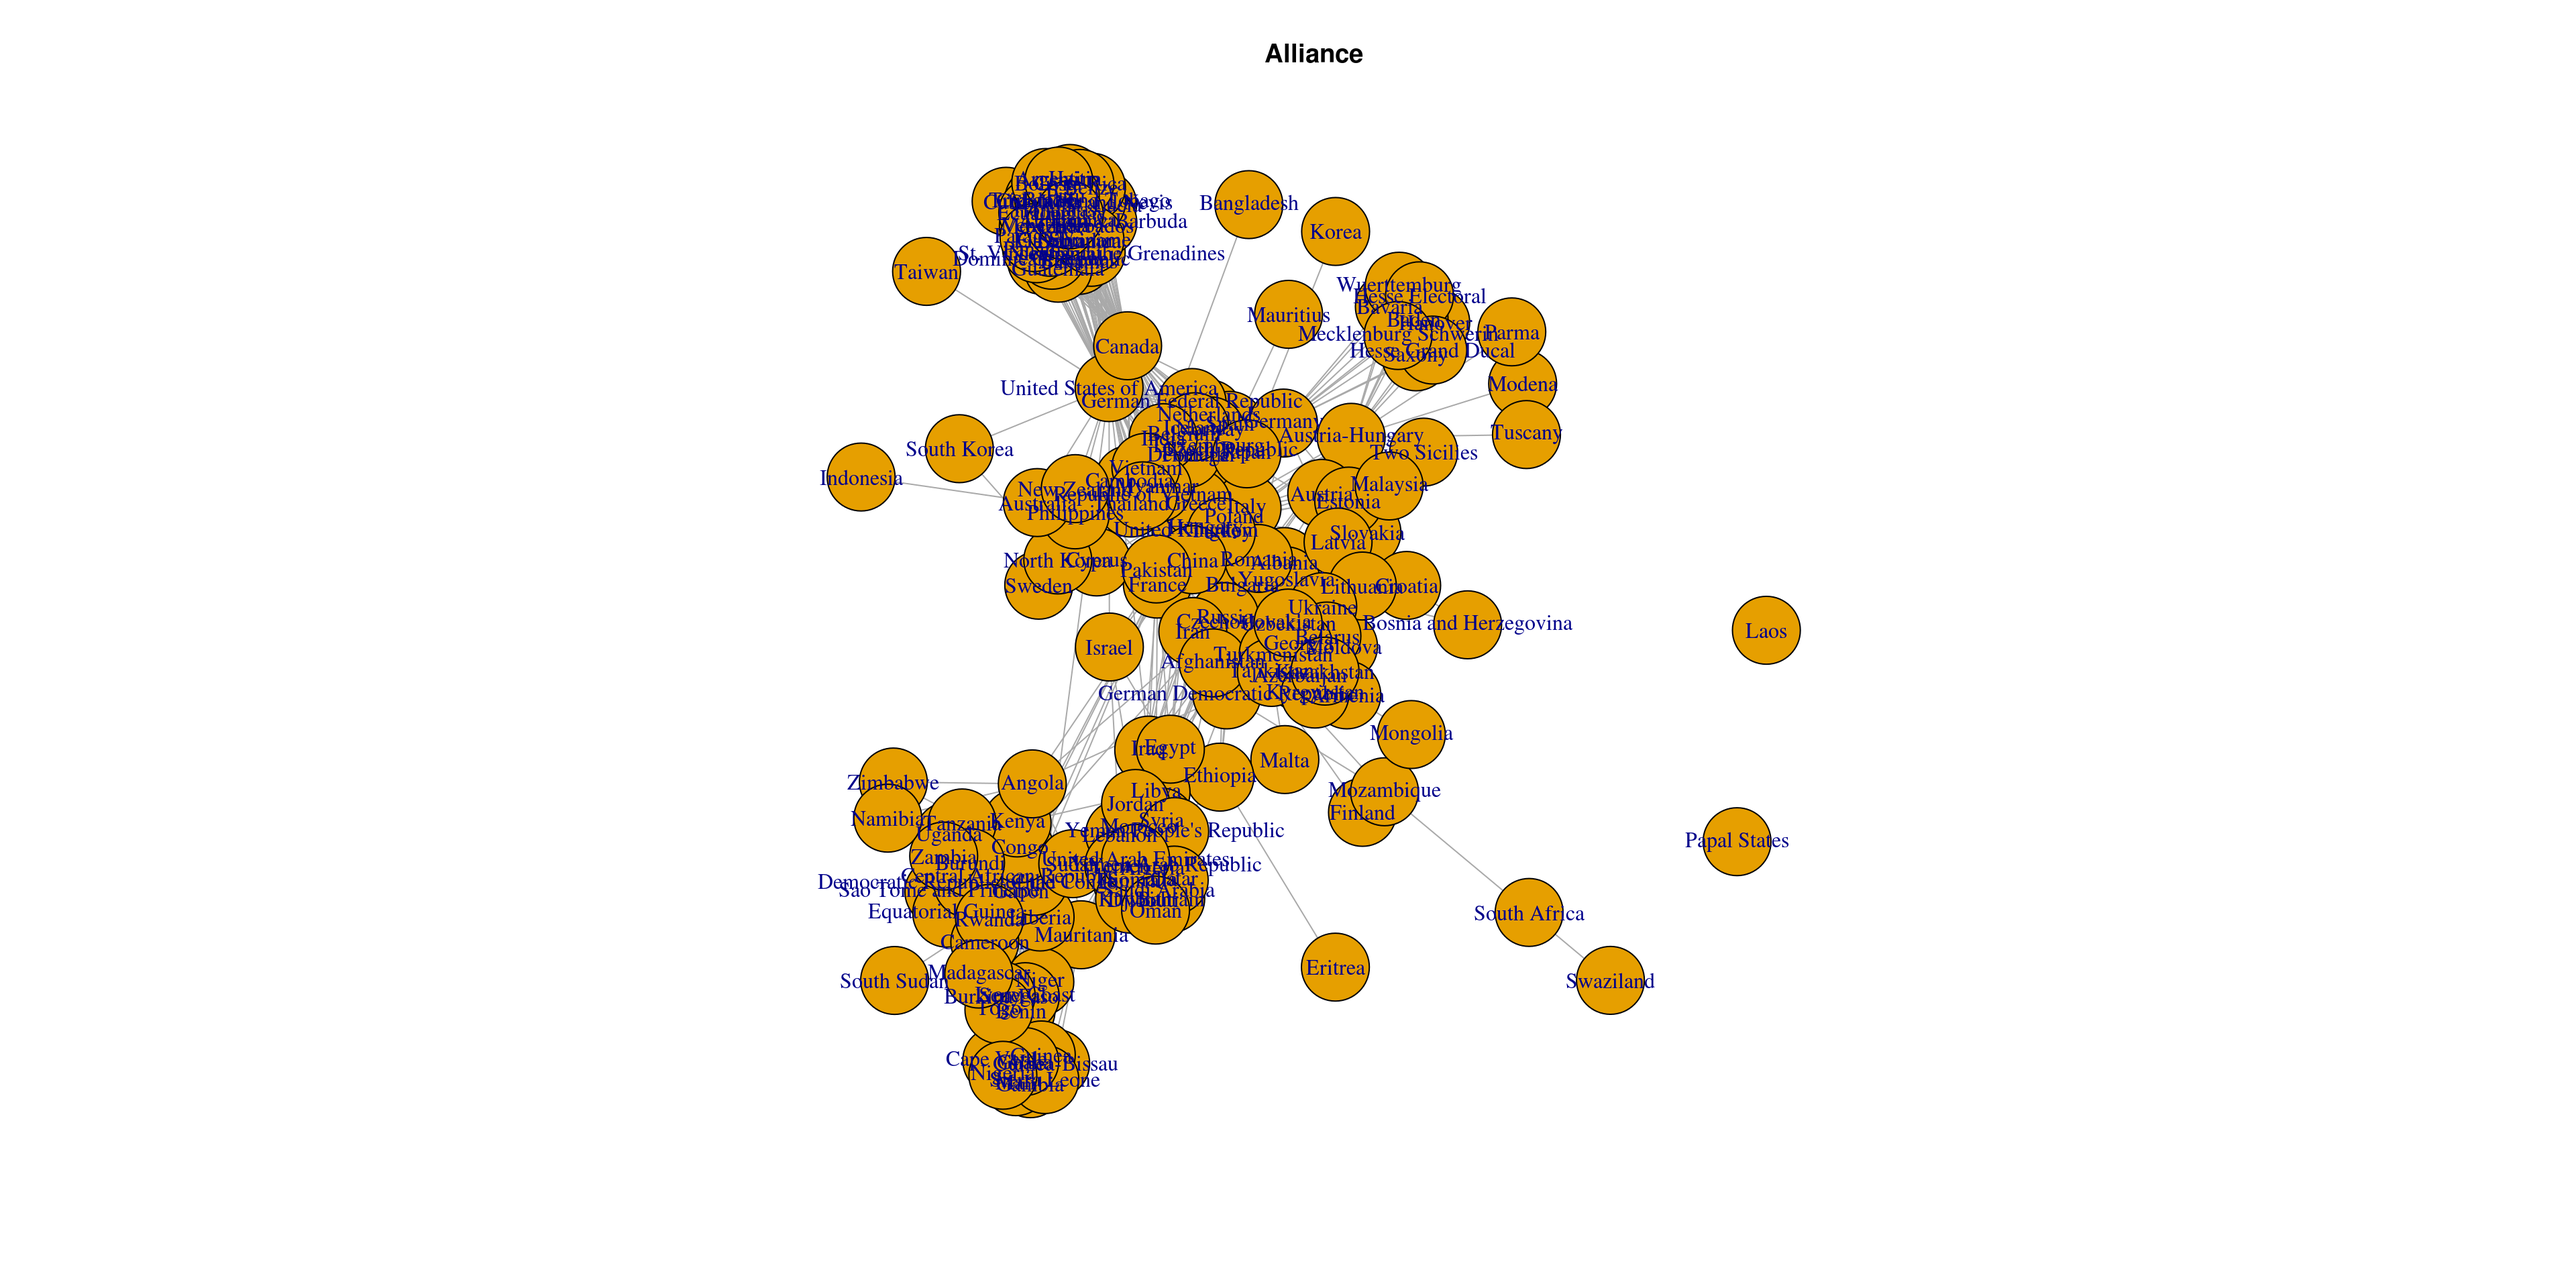
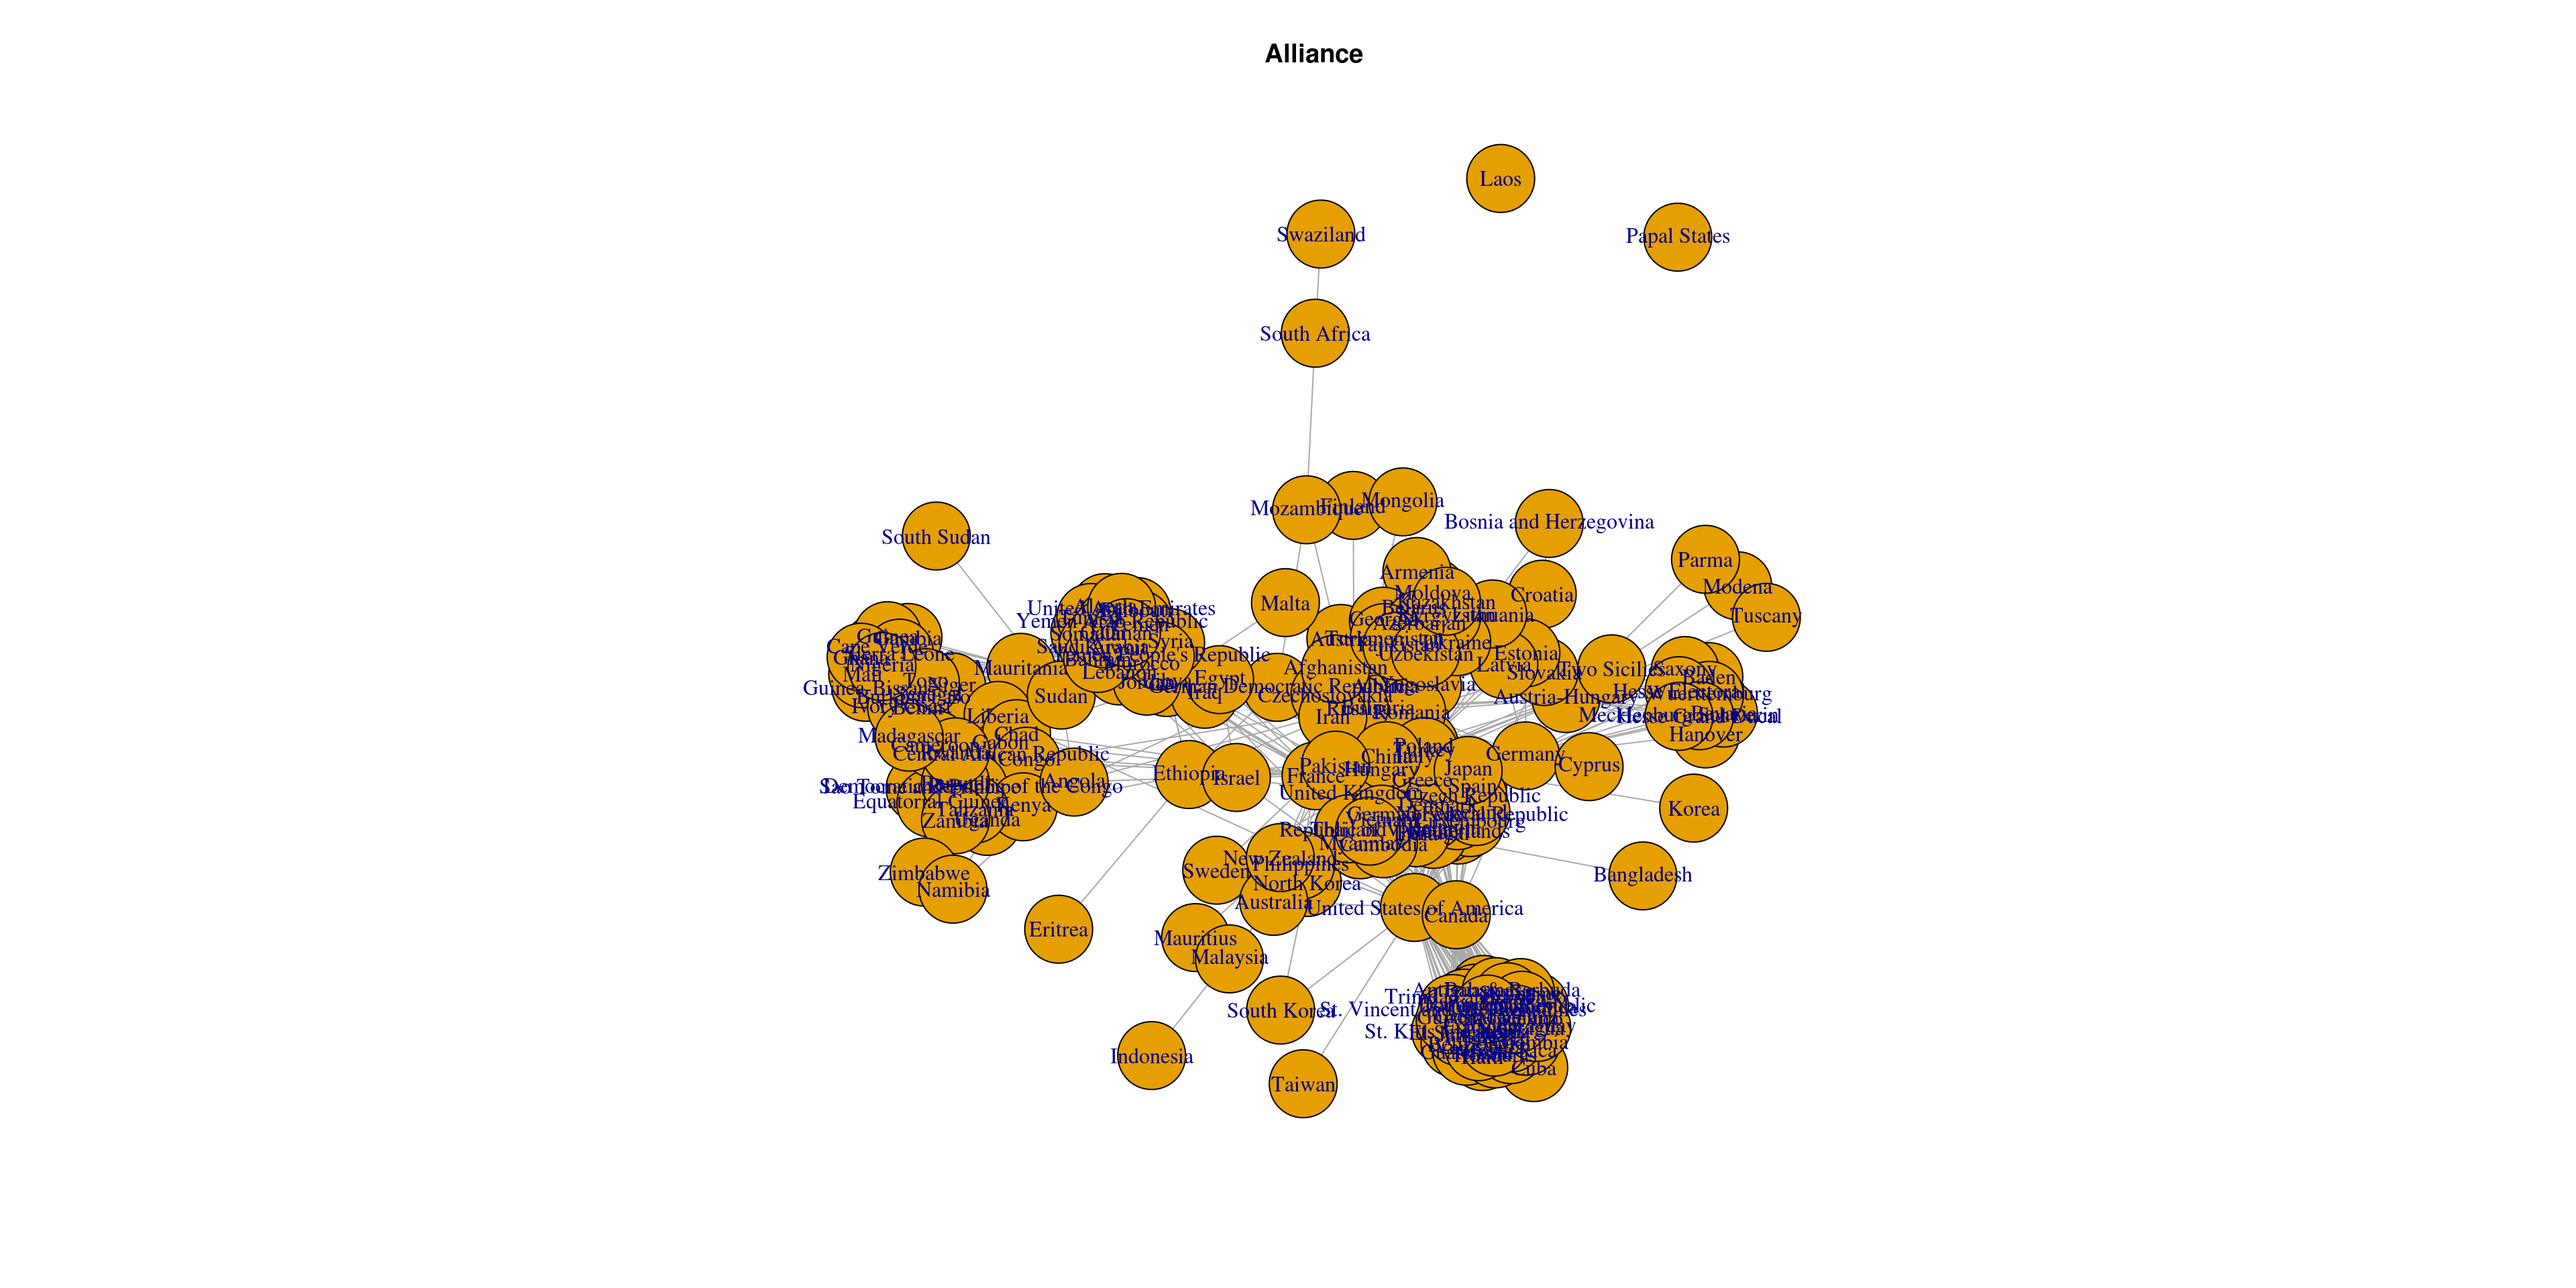
Deploy jchiquet/missSBM to github.com/jchiquet/missSBM.git:gh-pages

Changed region(s): [[0.3125, 0.0938, 0.7188, 0.875], [0.625, 0.1562, 0.6875, 0.2188], [0.5625, 0.0938, 0.5938, 0.1875]]

diff --git a/articles/introduction-to-misssbm.html b/articles/introduction-to-misssbm.html
@@ -86,7 +86,7 @@
       <h1>Introduction to missSBM</h1>
                         <h4 class="author">missSBM team</h4>
             
-            <h4 class="date">2019-04-05</h4>
+            <h4 class="date">2019-04-06</h4>
       
       <small class="dont-index">Source: <a href="https://github.com/jchiquet/missSBM/blob/master/vignettes/introduction-to-misssbm.Rmd"><code>vignettes/introduction-to-misssbm.Rmd</code></a></small>
       <div class="hidden name"><code>introduction-to-misssbm.Rmd</code></div>
@@ -170,8 +170,8 @@
 <p><img src="introduction-to-misssbm_files/figure-html/smoothed-1.png" width="700"></p>
 <div class="sourceCode" id="cb19"><pre class="sourceCode r"><code class="sourceCode r"><a class="sourceLine" id="cb19-1" data-line-number="1"><span class="kw"><a href="https://www.rdocumentation.org/packages/base/topics/table">table</a></span>(collection_sbm<span class="op">$</span>bestModel<span class="op">$</span>fittedSBM<span class="op">$</span>memberships)</a></code></pre></div>
 <pre><code>## 
-##  1  2  3 
-## 40 37 15</code></pre>
+##  1  2  3  4 
+## 29 48  4 11</code></pre>
 <p>We compare with clusterings obtained with the fully observed network.</p>
 <div class="sourceCode" id="cb21"><pre class="sourceCode r"><code class="sourceCode r"><a class="sourceLine" id="cb21-1" data-line-number="1">collection_sbm_full &lt;-<span class="st"> </span>war_graphs<span class="op">$</span>beligerent <span class="op">%&gt;%</span><span class="st"> </span></a>
 <a class="sourceLine" id="cb21-2" data-line-number="2"><span class="st">  </span><span class="kw"><a href="https://www.rdocumentation.org/packages/igraph/topics/as_adjacency_matrix">as_adj</a></span>(<span class="dt">sparse =</span> <span class="ot">FALSE</span>) <span class="op">%&gt;%</span><span class="st"> </span></a>
@@ -210,9 +210,10 @@ plot(collection_sbm_full2$ICL)
 <a class="sourceLine" id="cb27-4" data-line-number="4">  )</a></code></pre></div>
 <pre><code>##    
 ##      1  2  3  4
-##   1 28  0  0 12
-##   2  1  0  0 36
-##   3  0 10  5  0</code></pre>
+##   1 29  0  0  0
+##   2  0  0  0 48
+##   3  0  0  4  0
+##   4  0 10  1  0</code></pre>
 <div class="sourceCode" id="cb29"><pre class="sourceCode r"><code class="sourceCode r"><a class="sourceLine" id="cb29-1" data-line-number="1"><span class="kw"><a href="https://www.rdocumentation.org/packages/base/topics/library">library</a></span>(blockmodels)</a></code></pre></div>
 <pre><code>## Loading required package: Rcpp</code></pre>
 <pre><code>## Loading required package: parallel</code></pre>
